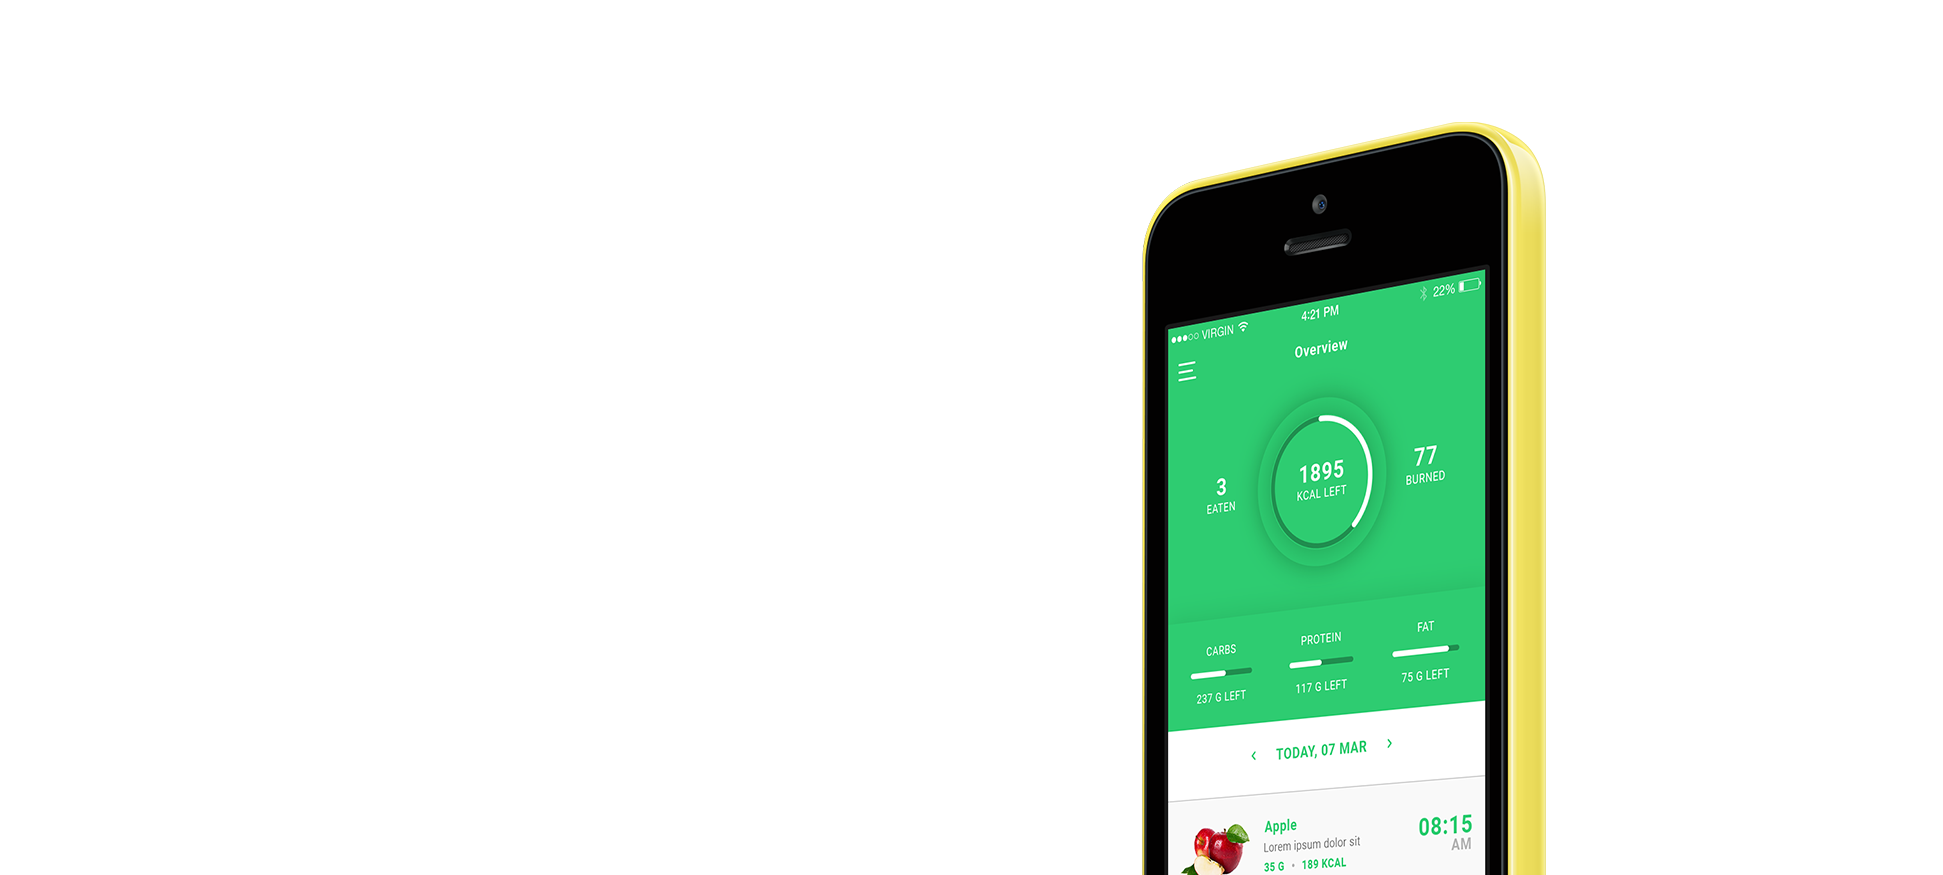
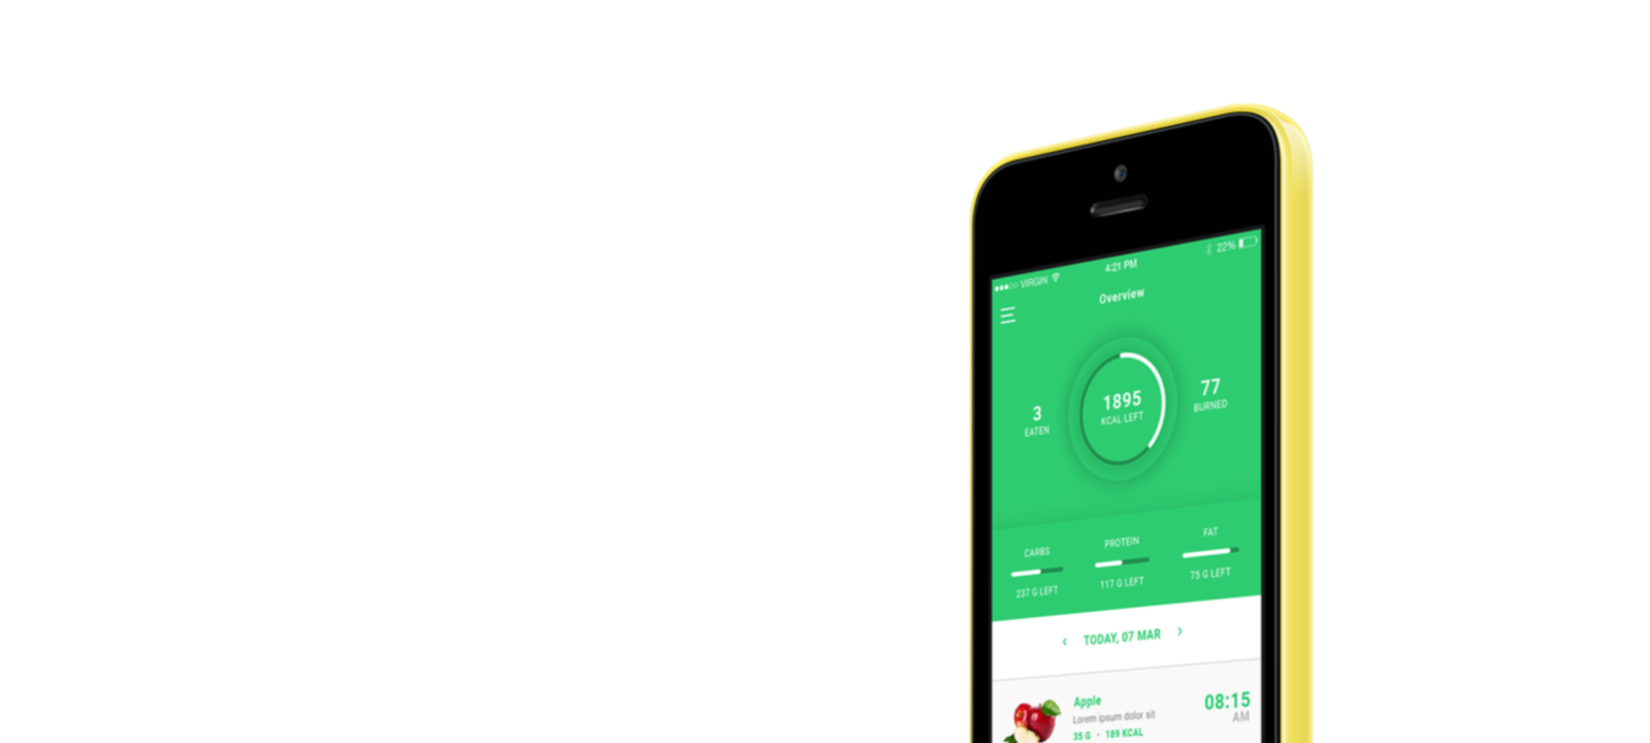
Пара кликабельных ссылок

diff --git a/style.css b/style.css
@@ -35,7 +35,7 @@ body{
     width: 133px;
     z-index: 3;
 }
-.hdr-btn{
+ .hdr-btn{
     position: absolute;
     right:546px;
     margin-top:42px;
@@ -48,15 +48,15 @@ body{
 .iPhone{
     
     position: absolute;
-    left: -230px;
-    margin-top:22px;
+    left:5px;
+    margin-top:155px;
     z-index: 2;
     
 }
 .tomato{
     position:absolute;
     margin-top: 267px;
-    left: 1430px;
+    left: 1410px;
 }
 .banana{
     position:absolute;
@@ -109,4 +109,36 @@ body{
     position:absolute;  
     z-index:3;
 
+}
+.about{
+    background: url(header.png);
+    position:absolute;
+    width:50px;
+    height: 14px;
+    left:605px;
+    top:42px;
+    z-index:3;
+}
+a{
+    z-index:3;
+
+}
+.features{
+    
+    background: url(header.png) no-repeat -105px -1px;
+    position:absolute;
+    width:74px;
+    height: 13px;
+    left:710px;
+    top:43px;
+    z-index:3;
+}
+.reviews{
+    background: url(header.png)  no-repeat -232px -1px;
+    position:absolute;
+    width:69px;
+    height:13px;
+    z-index: 3;
+    left:837px;
+    top:43px;
 }

diff --git a/index.html b/index.html
@@ -23,6 +23,15 @@
                     <img class = "ftapp" src = "fitapp.png">
                 </a>
                 <img class = "hdr-btn" src = "header.png">
+                <a href = "https://www.fitapp.info/privacy/">
+                    <div class = "about"></div>
+                </a>
+                <a href = "https://www.fitapp.info/impressum/">
+                    <div class = "features"></div>
+                </a>
+                <a href = "https://play.google.com/store/apps/details?id=com.fitapp&showAllReviews=true">
+                    <div class = "reviews"></div>
+                </a>
                 <img class = "tomato" src = "pomidor.png">
                 <a class = "btn-1" href = "https://play.google.com/store/apps/dev?id=6193080421213965865">
                     <img class = "gtapp" src = "getap.png">
